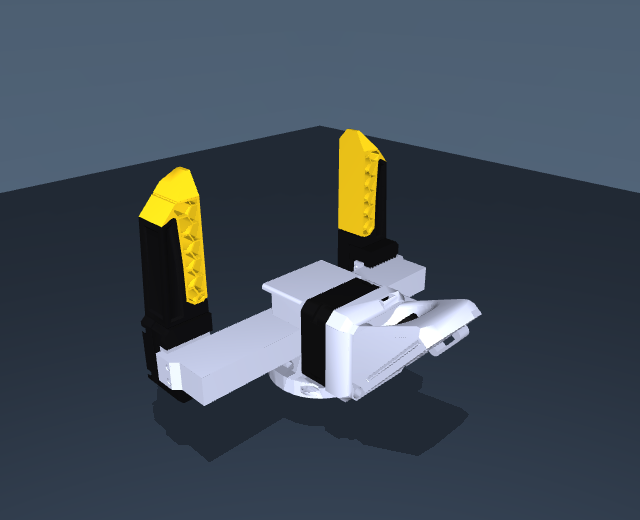
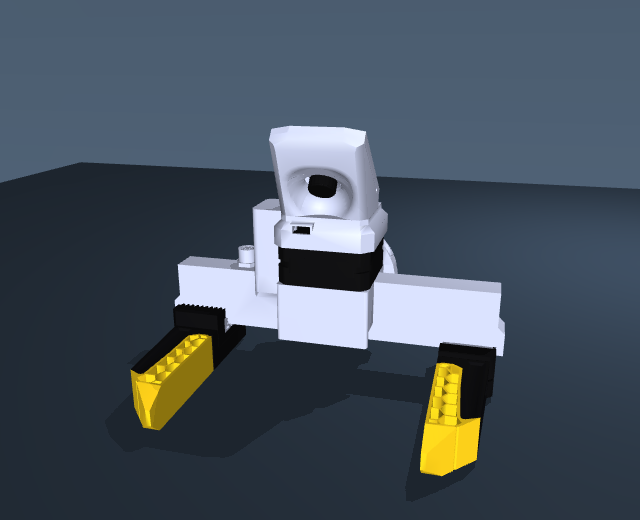
Show MSG jaws facing forward in the model guide

diff --git a/msg_description/README.md b/msg_description/README.md
@@ -1,6 +1,6 @@
 # MSG gripper: getting started
 
-[All models](https://github.com/Source-Robotics/robot_descriptions/blob/2f0629208057d258a47dd58354750c614e42c7be/README.md) | [PAR6](https://github.com/Source-Robotics/robot_descriptions/blob/2f0629208057d258a47dd58354750c614e42c7be/guides/par6.md) | [PAROL6](https://github.com/Source-Robotics/robot_descriptions/blob/2f0629208057d258a47dd58354750c614e42c7be/guides/parol6.md)
+[All models](https://github.com/Source-Robotics/robot_descriptions/blob/c7b75e56e7bd10d8da79ef09fe79c77b48a8bfc7/README.md) | [PAR6](https://github.com/Source-Robotics/robot_descriptions/blob/c7b75e56e7bd10d8da79ef09fe79c77b48a8bfc7/guides/par6.md) | [PAROL6](https://github.com/Source-Robotics/robot_descriptions/blob/c7b75e56e7bd10d8da79ef09fe79c77b48a8bfc7/guides/parol6.md)
 
 **Working with the gripper alone? Download a standalone package below.**
 Both formats include **Solid jaws** (default) and **Soft TPU jaws**, with all meshes,
@@ -25,8 +25,8 @@ folder together so the model can find its meshes.
 
 | Jaws | MuJoCo viewer scene | URDF entry file |
 | --- | --- | --- |
-| Solid jaws (default) | [`scene_solid.xml`](https://github.com/Source-Robotics/robot_descriptions/blob/2f0629208057d258a47dd58354750c614e42c7be/mujoco/msg/scene_solid.xml) | [`msg_solid.urdf`](https://github.com/Source-Robotics/robot_descriptions/blob/2f0629208057d258a47dd58354750c614e42c7be/urdf/msg_description/msg_solid.urdf) |
-| Soft TPU jaws | [`scene_soft_tpu.xml`](https://github.com/Source-Robotics/robot_descriptions/blob/2f0629208057d258a47dd58354750c614e42c7be/mujoco/msg/scene_soft_tpu.xml) | [`msg_soft_tpu.urdf`](https://github.com/Source-Robotics/robot_descriptions/blob/2f0629208057d258a47dd58354750c614e42c7be/urdf/msg_description/msg_soft_tpu.urdf) |
+| Solid jaws (default) | [`scene_solid.xml`](https://github.com/Source-Robotics/robot_descriptions/blob/c7b75e56e7bd10d8da79ef09fe79c77b48a8bfc7/mujoco/msg/scene_solid.xml) | [`msg_solid.urdf`](https://github.com/Source-Robotics/robot_descriptions/blob/c7b75e56e7bd10d8da79ef09fe79c77b48a8bfc7/urdf/msg_description/msg_solid.urdf) |
+| Soft TPU jaws | [`scene_soft_tpu.xml`](https://github.com/Source-Robotics/robot_descriptions/blob/c7b75e56e7bd10d8da79ef09fe79c77b48a8bfc7/mujoco/msg/scene_soft_tpu.xml) | [`msg_soft_tpu.urdf`](https://github.com/Source-Robotics/robot_descriptions/blob/c7b75e56e7bd10d8da79ef09fe79c77b48a8bfc7/urdf/msg_description/msg_soft_tpu.urdf) |
 
 **MuJoCo:** from the directory where you extracted the download, run:
 
@@ -62,7 +62,7 @@ In native MuJoCo, `gripper_actuator` accepts meters: **0 opens** and
 **-0.0525 closes**. Each finger has 52.5 mm of commanded travel,
 with the retained joint equality coupling. The URDF uses the same named finger
 joints and its retained mimic relation; the consumer must implement mimic and
-adjacent-body collision filtering. See the [package README](https://github.com/Source-Robotics/robot_descriptions/blob/2f0629208057d258a47dd58354750c614e42c7be/mujoco/msg/README.md)
+adjacent-body collision filtering. See the [package README](https://github.com/Source-Robotics/robot_descriptions/blob/c7b75e56e7bd10d8da79ef09fe79c77b48a8bfc7/mujoco/msg/README.md)
 for endpoint and contact details.
 
 The complete modeled mass is **380 g**, including two **39.3 g** moving
@@ -73,7 +73,7 @@ than a newly measured jaw-specific grasp center.
 
 ## Use MSG already mounted on PAR6 or PAROL6
 
-Download the **robot** package using the [PAR6](https://github.com/Source-Robotics/robot_descriptions/blob/2f0629208057d258a47dd58354750c614e42c7be/guides/par6.md) or [PAROL6](https://github.com/Source-Robotics/robot_descriptions/blob/2f0629208057d258a47dd58354750c614e42c7be/guides/parol6.md)
+Download the **robot** package using the [PAR6](https://github.com/Source-Robotics/robot_descriptions/blob/c7b75e56e7bd10d8da79ef09fe79c77b48a8bfc7/guides/par6.md) or [PAROL6](https://github.com/Source-Robotics/robot_descriptions/blob/c7b75e56e7bd10d8da79ef09fe79c77b48a8bfc7/guides/parol6.md)
 guide, then choose the corresponding mounted entry:
 
 | Jaws | Robot MuJoCo scene | Robot URDF file |
@@ -92,10 +92,10 @@ All maintained models live in the central `robot_descriptions` repository,
 under `mujoco/msg` and `urdf/msg_description`. A software project
 can load those paths from a pinned checkout if it needs local model sources.
 
-[Standalone validation](https://github.com/Source-Robotics/robot_descriptions/blob/2f0629208057d258a47dd58354750c614e42c7be/reports/standalone_grippers_validation.json) compares
+[Standalone validation](https://github.com/Source-Robotics/robot_descriptions/blob/c7b75e56e7bd10d8da79ef09fe79c77b48a8bfc7/reports/standalone_grippers_validation.json) compares
 tool-relative FK, local inertia, masses and controls with the mounted models,
 then checks physical close/open behavior and relocated package assets.
-[Migration instructions](https://github.com/Source-Robotics/robot_descriptions/blob/2f0629208057d258a47dd58354750c614e42c7be/guides/legacy-models.md) cover the older standalone exports.
+[Migration instructions](https://github.com/Source-Robotics/robot_descriptions/blob/c7b75e56e7bd10d8da79ef09fe79c77b48a8bfc7/guides/legacy-models.md) cover the older standalone exports.
 
 ## Maintained model source
 
@@ -105,5 +105,5 @@ All model files are maintained in [robot_descriptions](https://github.com/Source
 this hardware repository has no model submodule to initialize.
 
 Current tested model release: **[v2.13.0](https://github.com/Source-Robotics/robot_descriptions/releases/tag/v2.13.0)**.
-See the [shared product guide](https://github.com/Source-Robotics/robot_descriptions/blob/2f0629208057d258a47dd58354750c614e42c7be/guides/msg.md)
+See the [shared product guide](https://github.com/Source-Robotics/robot_descriptions/blob/c7b75e56e7bd10d8da79ef09fe79c77b48a8bfc7/guides/msg.md)
 for the corresponding central documentation.
